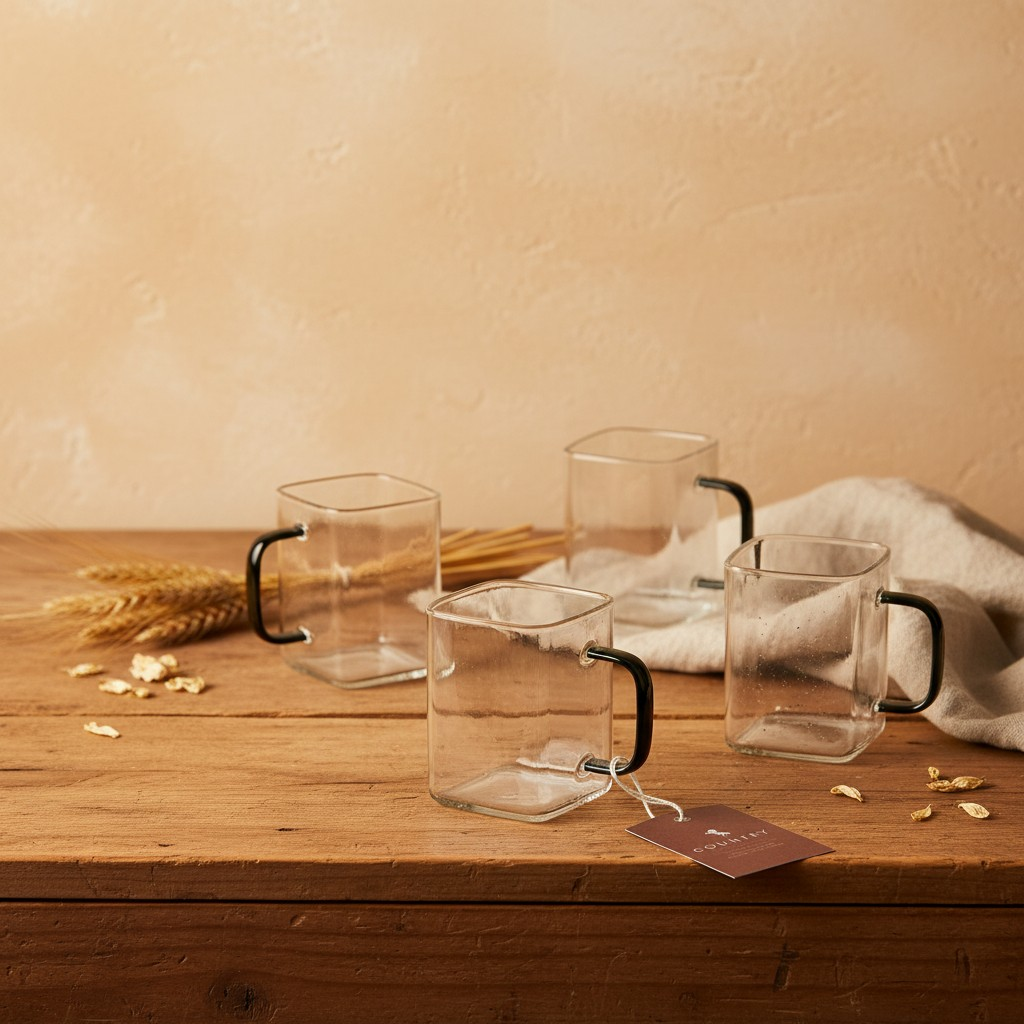
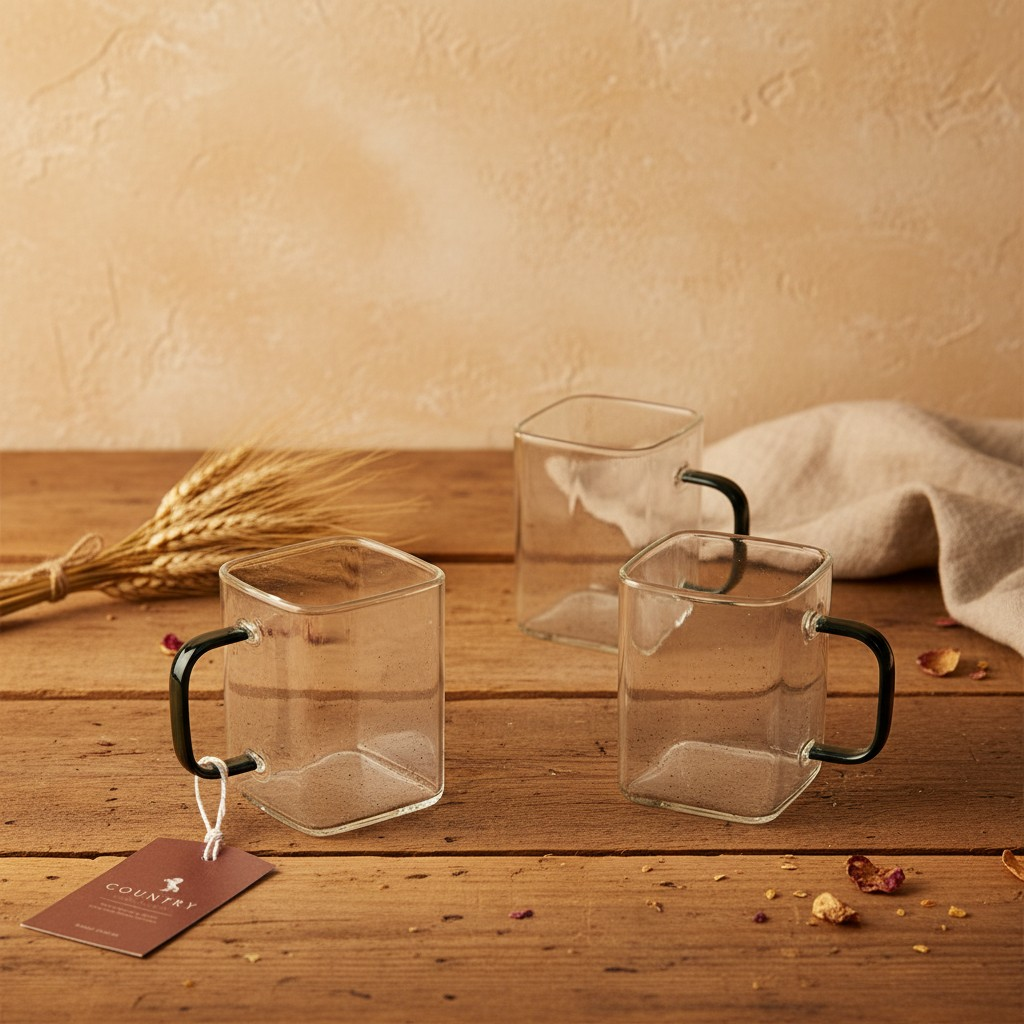
mug-irish x6: elimina fotos 2,3,8,12,13; ultima pasa a segunda (10 fotos)

diff --git a/index.html b/index.html
@@ -2083,7 +2083,7 @@ src="https://www.facebook.com/tr?id=1479825037203290&ev=PageView&noscript=1"/></
   <div class="product" id="copas-fedra"><img loading="lazy" class="main-photo" src="FOTOS/mishka/copas-fedra/1.jpg" alt="Set x6 Copas Fedra 330ml"><div class="thumbnails"><img loading="lazy" src="FOTOS/mishka/copas-fedra/1.jpg" class="active" onmouseover="changeMain(this)"><img loading="lazy" src="FOTOS/mishka/copas-fedra/2.jpg" onmouseover="changeMain(this)"><img loading="lazy" src="FOTOS/mishka/copas-fedra/3.jpg" onmouseover="changeMain(this)"><img loading="lazy" src="FOTOS/mishka/copas-fedra/4.jpg" onmouseover="changeMain(this)"><img loading="lazy" src="FOTOS/mishka/copas-fedra/5.jpg" onmouseover="changeMain(this)"><img loading="lazy" src="FOTOS/mishka/copas-fedra/6.jpg" onmouseover="changeMain(this)"><img loading="lazy" src="FOTOS/mishka/copas-fedra/7.jpg" onmouseover="changeMain(this)"><img loading="lazy" src="FOTOS/mishka/copas-fedra/8.jpg" onmouseover="changeMain(this)"></div><div class="product-info"><div class="product-name">Set x6 Copas Fedra 330 ml</div><div class="product-desc">Vidrio · Diseño elegante y fino · Para vinos blancos, rosados y espumantes · Set de 6 · 330 ml c/u</div><div class="product-price">$143.999</div><span class="product-tag">Mesa & Cocina</span></div></div>
   <div class="product" id="copas-fedra-brown"><img loading="lazy" class="main-photo" src="FOTOS/mishka/copas-fedra-brown/1.jpg" alt="Set x6 Copas Fedra Brown 320ml"><div class="thumbnails"><img loading="lazy" src="FOTOS/mishka/copas-fedra-brown/1.jpg" class="active" onmouseover="changeMain(this)"><img loading="lazy" src="FOTOS/mishka/copas-fedra-brown/2.jpg" onmouseover="changeMain(this)"><img loading="lazy" src="FOTOS/mishka/copas-fedra-brown/3.jpg" onmouseover="changeMain(this)"><img loading="lazy" src="FOTOS/mishka/copas-fedra-brown/4.jpg" onmouseover="changeMain(this)"><img loading="lazy" src="FOTOS/mishka/copas-fedra-brown/5.jpg" onmouseover="changeMain(this)"><img loading="lazy" src="FOTOS/mishka/copas-fedra-brown/6.jpg" onmouseover="changeMain(this)"><img loading="lazy" src="FOTOS/mishka/copas-fedra-brown/7.jpg" onmouseover="changeMain(this)"><img loading="lazy" src="FOTOS/mishka/copas-fedra-brown/8.jpg" onmouseover="changeMain(this)"></div><div class="product-info"><div class="product-name">Set x6 Copas Fedra Brown 320 ml</div><div class="product-desc">Vidrio ahumado marrón · Tono cálido y sofisticado · Set de 6 · 320 ml c/u</div><div class="product-price">$169.999</div><span class="product-tag">Mesa & Cocina</span></div></div>
   <div class="product" id="jarra-maja-black"><img loading="lazy" class="main-photo" src="FOTOS/mishka/jarra-maja-black/1.jpg" alt="Jarra Maja Black 1600ml"><div class="thumbnails"><img loading="lazy" src="FOTOS/mishka/jarra-maja-black/1.jpg" class="active" onmouseover="changeMain(this)"><img loading="lazy" src="FOTOS/mishka/jarra-maja-black/2.jpg" onmouseover="changeMain(this)"><img loading="lazy" src="FOTOS/mishka/jarra-maja-black/3.jpg" onmouseover="changeMain(this)"><img loading="lazy" src="FOTOS/mishka/jarra-maja-black/4.jpg" onmouseover="changeMain(this)"><img loading="lazy" src="FOTOS/mishka/jarra-maja-black/5.jpg" onmouseover="changeMain(this)"><img loading="lazy" src="FOTOS/mishka/jarra-maja-black/6.jpg" onmouseover="changeMain(this)"><img loading="lazy" src="FOTOS/mishka/jarra-maja-black/7.jpg" onmouseover="changeMain(this)"></div><div class="product-info"><div class="product-name">Jarra Maja Black 1600 ml</div><div class="product-desc">Vidrio con funda tejida de rattan negro · Diseño artesanal único · 1600 ml</div><div class="product-price">$66.999</div><span class="product-tag">Mesa & Cocina</span></div></div>
-    <div class="product" id="mug-irish"><img loading="lazy" class="main-photo" src="FOTOS/mishka/mug-icon/1.jpg" alt="Set x6 Mug Irish Borosilicato 190ml"><div class="thumbnails"><img loading="lazy" src="FOTOS/mishka/mug-icon/1.jpg" class="active" onmouseover="changeMain(this)"><img loading="lazy" src="FOTOS/mishka/mug-icon/2.jpg" onmouseover="changeMain(this)"><img loading="lazy" src="FOTOS/mishka/mug-icon/3.jpg" onmouseover="changeMain(this)"><img loading="lazy" src="FOTOS/mishka/mug-icon/4.jpg" onmouseover="changeMain(this)"><img loading="lazy" src="FOTOS/mishka/mug-icon/5.jpg" onmouseover="changeMain(this)"><img loading="lazy" src="FOTOS/mishka/mug-icon/6.jpg" onmouseover="changeMain(this)"><img loading="lazy" src="FOTOS/mishka/mug-icon/7.jpg" onmouseover="changeMain(this)"><img loading="lazy" src="FOTOS/mishka/mug-icon/8.jpg" onmouseover="changeMain(this)"><img loading="lazy" src="FOTOS/mishka/mug-icon/9.jpg" onmouseover="changeMain(this)"><img loading="lazy" src="FOTOS/mishka/mug-icon/10.jpg" onmouseover="changeMain(this)"><img loading="lazy" src="FOTOS/mishka/mug-icon/11.jpg" onmouseover="changeMain(this)"><img loading="lazy" src="FOTOS/mishka/mug-icon/12.jpg" onmouseover="changeMain(this)"><img loading="lazy" src="FOTOS/mishka/mug-icon/13.jpg" onmouseover="changeMain(this)"><img loading="lazy" src="FOTOS/mishka/mug-icon/14.jpg" onmouseover="changeMain(this)"><img loading="lazy" src="FOTOS/mishka/mug-icon/15.jpg" onmouseover="changeMain(this)"></div><div class="product-info"><div class="product-name">Set x6 Mug Irish Borosilicato 190 ml</div><div class="product-desc">Fabricado con vidrio borosilicato · El mismo que se usa en medicina e industria · Resiste cambios bruscos de temperatura · No retiene olores ni sabores · Ultra resistente y duradero · 190 ml · Set de 6 unidades</div><div class="product-price">$43.999</div><span class="product-tag">Mesa & Cocina</span></div></div>
+    <div class="product" id="mug-irish"><img loading="lazy" class="main-photo" src="FOTOS/mishka/mug-icon/1.jpg" alt="Set x6 Mug Irish Borosilicato 190ml"><div class="thumbnails"><img loading="lazy" src="FOTOS/mishka/mug-icon/1.jpg" class="active" onmouseover="changeMain(this)"><img loading="lazy" src="FOTOS/mishka/mug-icon/2.jpg" onmouseover="changeMain(this)"><img loading="lazy" src="FOTOS/mishka/mug-icon/3.jpg" onmouseover="changeMain(this)"><img loading="lazy" src="FOTOS/mishka/mug-icon/4.jpg" onmouseover="changeMain(this)"><img loading="lazy" src="FOTOS/mishka/mug-icon/5.jpg" onmouseover="changeMain(this)"><img loading="lazy" src="FOTOS/mishka/mug-icon/6.jpg" onmouseover="changeMain(this)"><img loading="lazy" src="FOTOS/mishka/mug-icon/7.jpg" onmouseover="changeMain(this)"><img loading="lazy" src="FOTOS/mishka/mug-icon/8.jpg" onmouseover="changeMain(this)"><img loading="lazy" src="FOTOS/mishka/mug-icon/9.jpg" onmouseover="changeMain(this)"><img loading="lazy" src="FOTOS/mishka/mug-icon/10.jpg" onmouseover="changeMain(this)"></div><div class="product-info"><div class="product-name">Set x6 Mug Irish Borosilicato 190 ml</div><div class="product-desc">Fabricado con vidrio borosilicato · El mismo que se usa en medicina e industria · Resiste cambios bruscos de temperatura · No retiene olores ni sabores · Ultra resistente y duradero · 190 ml · Set de 6 unidades</div><div class="product-price">$43.999</div><span class="product-tag">Mesa & Cocina</span></div></div>
   <div class="product" id="mug-irish-x4"><img loading="lazy" class="main-photo" src="FOTOS/mishka/mug-irish-x4/1.jpg" alt="Set x4 Mug Irish Borosilicato 190ml"><div class="thumbnails"><img loading="lazy" src="FOTOS/mishka/mug-irish-x4/1.jpg" class="active" onmouseover="changeMain(this)"><img loading="lazy" src="FOTOS/mishka/mug-irish-x4/2.jpg" onmouseover="changeMain(this)"><img loading="lazy" src="FOTOS/mishka/mug-irish-x4/3.jpg" onmouseover="changeMain(this)"><img loading="lazy" src="FOTOS/mishka/mug-irish-x4/4.jpg" onmouseover="changeMain(this)"><img loading="lazy" src="FOTOS/mishka/mug-irish-x4/5.jpg" onmouseover="changeMain(this)"><img loading="lazy" src="FOTOS/mishka/mug-irish-x4/6.jpg" onmouseover="changeMain(this)"><img loading="lazy" src="FOTOS/mishka/mug-irish-x4/7.jpg" onmouseover="changeMain(this)"><img loading="lazy" src="FOTOS/mishka/mug-irish-x4/8.jpg" onmouseover="changeMain(this)"><img loading="lazy" src="FOTOS/mishka/mug-irish-x4/9.jpg" onmouseover="changeMain(this)"></div><div class="product-info"><div class="product-name">Set x4 Mug Irish Borosilicato 190 ml</div><div class="product-desc">Fabricado con vidrio borosilicato · El mismo que se usa en medicina e industria · Resiste cambios bruscos de temperatura · No retiene olores ni sabores · Ultra resistente y duradero · 190 ml · Set de 4 unidades</div><div class="product-price">$28.999</div><span class="product-tag">Mesa & Cocina</span></div></div>
   <div class="product" id="mug-vienna-x6"><img loading="lazy" class="main-photo" src="FOTOS/mishka/mug-vienna-x6/1.jpg" alt="Set x6 Mug Vienna Borosilicato 200ml"><div class="thumbnails"><img loading="lazy" src="FOTOS/mishka/mug-vienna-x6/1.jpg" class="active" onmouseover="changeMain(this)"><img loading="lazy" src="FOTOS/mishka/mug-vienna-x6/2.jpg" onmouseover="changeMain(this)"><img loading="lazy" src="FOTOS/mishka/mug-vienna-x6/3.jpg" onmouseover="changeMain(this)"><img loading="lazy" src="FOTOS/mishka/mug-vienna-x6/4.jpg" onmouseover="changeMain(this)"><img loading="lazy" src="FOTOS/mishka/mug-vienna-x6/5.jpg" onmouseover="changeMain(this)"><img loading="lazy" src="FOTOS/mishka/mug-vienna-x6/6.jpg" onmouseover="changeMain(this)"><img loading="lazy" src="FOTOS/mishka/mug-vienna-x6/7.jpg" onmouseover="changeMain(this)"><img loading="lazy" src="FOTOS/mishka/mug-vienna-x6/8.jpg" onmouseover="changeMain(this)"></div><div class="product-info"><div class="product-name">Set x6 Mug Vienna Borosilicato 200 ml</div><div class="product-desc">Fabricado con vidrio borosilicato · El mismo que se usa en medicina e industria · Resiste cambios bruscos de temperatura · No retiene olores ni sabores · Ultra resistente y duradero · 200 ml · Set de 6 unidades</div><div class="product-price">$59.999</div><span class="product-tag">Mesa & Cocina</span></div></div><div class="product" id="mug-vienna-x4"><img loading="lazy" class="main-photo" src="FOTOS/mishka/mug-vienna-x4/1.jpg" alt="Set x4 Mug Vienna Borosilicato 200ml"><div class="thumbnails"><img loading="lazy" src="FOTOS/mishka/mug-vienna-x4/1.jpg" class="active" onmouseover="changeMain(this)"><img loading="lazy" src="FOTOS/mishka/mug-vienna-x4/2.jpg" onmouseover="changeMain(this)"><img loading="lazy" src="FOTOS/mishka/mug-vienna-x4/3.jpg" onmouseover="changeMain(this)"><img loading="lazy" src="FOTOS/mishka/mug-vienna-x4/4.jpg" onmouseover="changeMain(this)"><img loading="lazy" src="FOTOS/mishka/mug-vienna-x4/5.jpg" onmouseover="changeMain(this)"><img loading="lazy" src="FOTOS/mishka/mug-vienna-x4/6.jpg" onmouseover="changeMain(this)"><img loading="lazy" src="FOTOS/mishka/mug-vienna-x4/7.jpg" onmouseover="changeMain(this)"><img loading="lazy" src="FOTOS/mishka/mug-vienna-x4/8.jpg" onmouseover="changeMain(this)"></div><div class="product-info"><div class="product-name">Set x4 Mug Vienna Borosilicato 200 ml</div><div class="product-desc">Fabricado con vidrio borosilicato · El mismo que se usa en medicina e industria · Resiste cambios bruscos de temperatura · No retiene olores ni sabores · Ultra resistente y duradero · 200 ml · Set de 4 unidades</div><div class="product-price">$39.999</div><span class="product-tag">Mesa & Cocina</span></div></div><div class="product" id="copetinero-redondo"><img loading="lazy" class="main-photo" src="FOTOS/mishka/copetinero-redondo/1.jpg" alt="Copetinero Redondo Acacia"><div class="thumbnails"><img loading="lazy" src="FOTOS/mishka/copetinero-redondo/1.jpg" class="active" onmouseover="changeMain(this)"><img loading="lazy" src="FOTOS/mishka/copetinero-redondo/2.jpg" onmouseover="changeMain(this)"><img loading="lazy" src="FOTOS/mishka/copetinero-redondo/3.jpg" onmouseover="changeMain(this)"><img loading="lazy" src="FOTOS/mishka/copetinero-redondo/4.jpg" onmouseover="changeMain(this)"><img loading="lazy" src="FOTOS/mishka/copetinero-redondo/5.jpg" onmouseover="changeMain(this)"><img loading="lazy" src="FOTOS/mishka/copetinero-redondo/6.jpg" onmouseover="changeMain(this)"><img loading="lazy" src="FOTOS/mishka/copetinero-redondo/7.jpg" onmouseover="changeMain(this)"><img loading="lazy" src="FOTOS/mishka/copetinero-redondo/8.jpg" onmouseover="changeMain(this)"></div><div class="product-info"><div class="product-name">Copetinero Redondo Acacia</div><div class="product-desc">Hecho a mano · Madera de acacia · Una de las maderas más duras y resistentes del mundo · Propiedades antimicrobianas naturales · Veta y color únicos en cada pieza · 10 cm · Diseño redondo</div><div class="product-price">$23.999</div><span class="product-tag">Mesa & Cocina</span></div></div><div class="product" id="copetinero-conico"><img loading="lazy" class="main-photo" src="FOTOS/mishka/copetinero-conico/1.jpg" alt="Copetinero Cónico Acacia"><div class="thumbnails"><img loading="lazy" src="FOTOS/mishka/copetinero-conico/1.jpg" class="active" onmouseover="changeMain(this)"><img loading="lazy" src="FOTOS/mishka/copetinero-conico/2.jpg" onmouseover="changeMain(this)"><img loading="lazy" src="FOTOS/mishka/copetinero-conico/3.jpg" onmouseover="changeMain(this)"><img loading="lazy" src="FOTOS/mishka/copetinero-conico/4.jpg" onmouseover="changeMain(this)"><img loading="lazy" src="FOTOS/mishka/copetinero-conico/5.jpg" onmouseover="changeMain(this)"><img loading="lazy" src="FOTOS/mishka/copetinero-conico/6.jpg" onmouseover="changeMain(this)"><img loading="lazy" src="FOTOS/mishka/copetinero-conico/7.jpg" onmouseover="changeMain(this)"><img loading="lazy" src="FOTOS/mishka/copetinero-conico/8.jpg" onmouseover="changeMain(this)"></div><div class="product-info"><div class="product-name">Copetinero Cónico Acacia</div><div class="product-desc">Hecho a mano · Madera de acacia · Una de las maderas más duras y resistentes del mundo · Propiedades antimicrobianas naturales · Veta y color únicos en cada pieza · 10 cm · Diseño cónico</div><div class="product-price">$23.999</div><span class="product-tag">Mesa & Cocina</span></div></div><div class="product" id="copetinero-cuadrado"><img loading="lazy" class="main-photo" src="FOTOS/mishka/copetinero-cuadrado/1.jpg" alt="Copetinero Cuadrado Acacia"><div class="thumbnails"><img loading="lazy" src="FOTOS/mishka/copetinero-cuadrado/1.jpg" class="active" onmouseover="changeMain(this)"><img loading="lazy" src="FOTOS/mishka/copetinero-cuadrado/2.jpg" onmouseover="changeMain(this)"><img loading="lazy" src="FOTOS/mishka/copetinero-cuadrado/3.jpg" onmouseover="changeMain(this)"><img loading="lazy" src="FOTOS/mishka/copetinero-cuadrado/4.jpg" onmouseover="changeMain(this)"><img loading="lazy" src="FOTOS/mishka/copetinero-cuadrado/5.jpg" onmouseover="changeMain(this)"></div><div class="product-info"><div class="product-name">Copetinero Cuadrado Acacia</div><div class="product-desc">Hecho a mano · Madera de acacia · Una de las maderas más duras y resistentes del mundo · Propiedades antimicrobianas naturales · Veta y color únicos en cada pieza · 10 cm · Diseño cuadrado</div><div class="product-price">$23.999</div><span class="product-tag">Mesa & Cocina</span></div></div><div class="product" id="copetineros-porcelana"><img loading="lazy" class="main-photo" src="FOTOS/mishka/copetineros-porcelana/1.jpg" alt="Set x4 Copetineros Porcelana Base Bamboo"><div class="thumbnails"><img loading="lazy" src="FOTOS/mishka/copetineros-porcelana/1.jpg" class="active" onmouseover="changeMain(this)"><img loading="lazy" src="FOTOS/mishka/copetineros-porcelana/2.jpg" onmouseover="changeMain(this)"><img loading="lazy" src="FOTOS/mishka/copetineros-porcelana/3.jpg" onmouseover="changeMain(this)"><img loading="lazy" src="FOTOS/mishka/copetineros-porcelana/4.jpg" onmouseover="changeMain(this)"><img loading="lazy" src="FOTOS/mishka/copetineros-porcelana/5.jpg" onmouseover="changeMain(this)"><img loading="lazy" src="FOTOS/mishka/copetineros-porcelana/6.jpg" onmouseover="changeMain(this)"><img loading="lazy" src="FOTOS/mishka/copetineros-porcelana/7.jpg" onmouseover="changeMain(this)"><img loading="lazy" src="FOTOS/mishka/copetineros-porcelana/8.jpg" onmouseover="changeMain(this)"></div><div class="product-info"><div class="product-name">Set x4 Copetineros Porcelana + Base Bamboo</div><div class="product-desc">Porcelana cuadrada con base de bamboo negro · 20×20 cm · Diseño premium</div><div class="product-price">$47.999</div><span class="product-tag">Mesa & Cocina</span></div></div>
   <div class="product" id="cuenco-acacia"><img loading="lazy" class="main-photo" src="FOTOS/mishka/cuenco-acacia/1.jpg" alt="Cuenco Ovalado Acacia 26cm"><div class="thumbnails"><img loading="lazy" src="FOTOS/mishka/cuenco-acacia/1.jpg" class="active" onmouseover="changeMain(this)"><img loading="lazy" src="FOTOS/mishka/cuenco-acacia/2.jpg" onmouseover="changeMain(this)"><img loading="lazy" src="FOTOS/mishka/cuenco-acacia/3.jpg" onmouseover="changeMain(this)"><img loading="lazy" src="FOTOS/mishka/cuenco-acacia/4.jpg" onmouseover="changeMain(this)"><img loading="lazy" src="FOTOS/mishka/cuenco-acacia/5.jpg" onmouseover="changeMain(this)"><img loading="lazy" src="FOTOS/mishka/cuenco-acacia/6.jpg" onmouseover="changeMain(this)"><img loading="lazy" src="FOTOS/mishka/cuenco-acacia/7.jpg" onmouseover="changeMain(this)"><img loading="lazy" src="FOTOS/mishka/cuenco-acacia/8.jpg" onmouseover="changeMain(this)"></div><div class="product-info"><div class="product-name">Cuenco Ovalado Acacia Manila 26 cm</div><div class="product-desc">Madera de acacia natural · Para servir y decorar · 26×20×6,5 cm</div><div class="product-price">$47.999</div><span class="product-tag">Mesa & Cocina</span></div></div>
